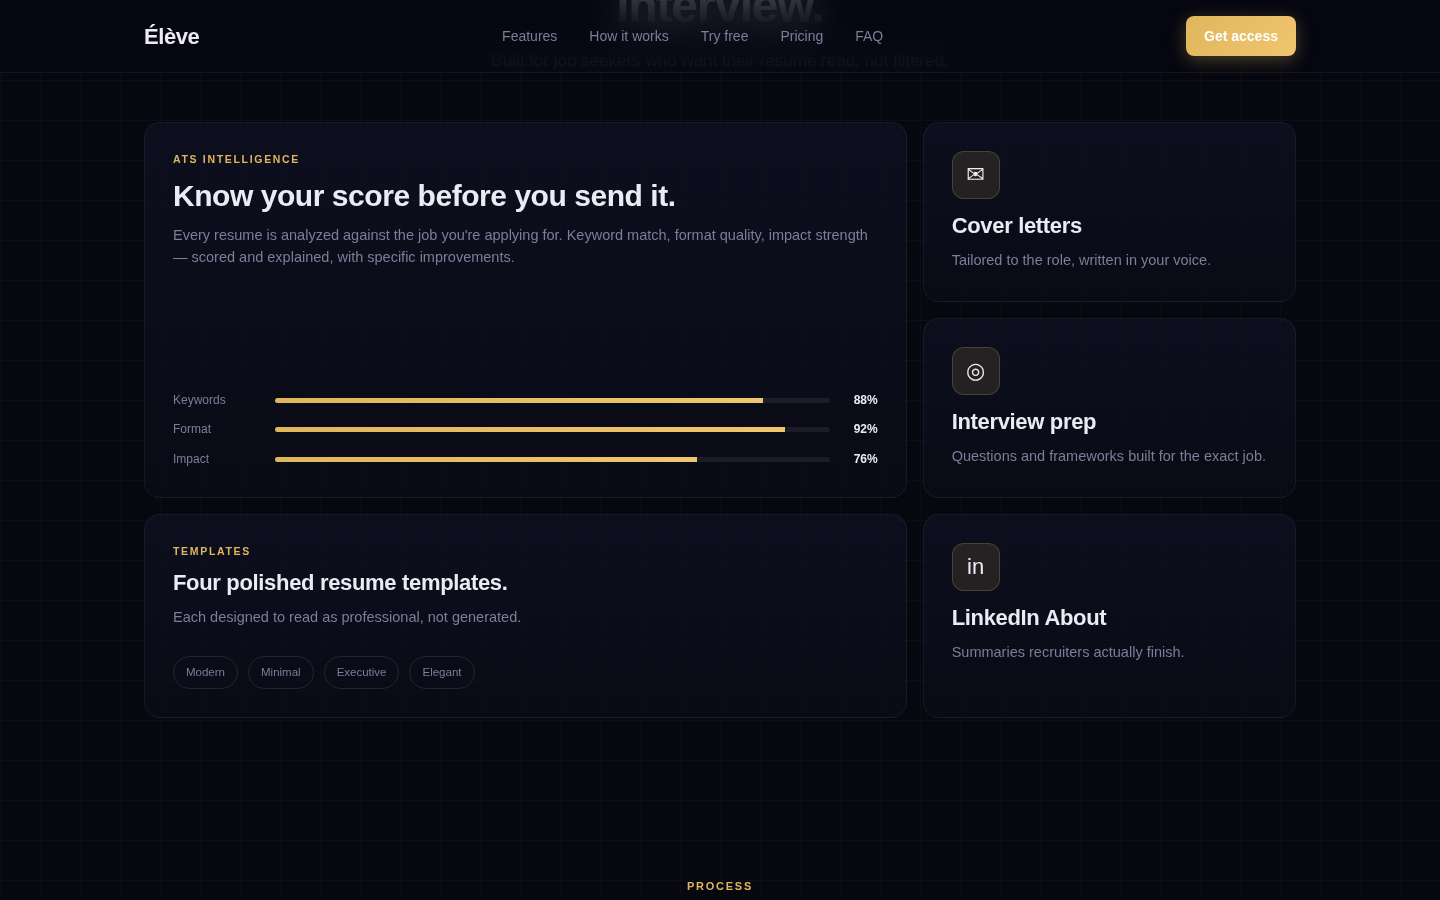
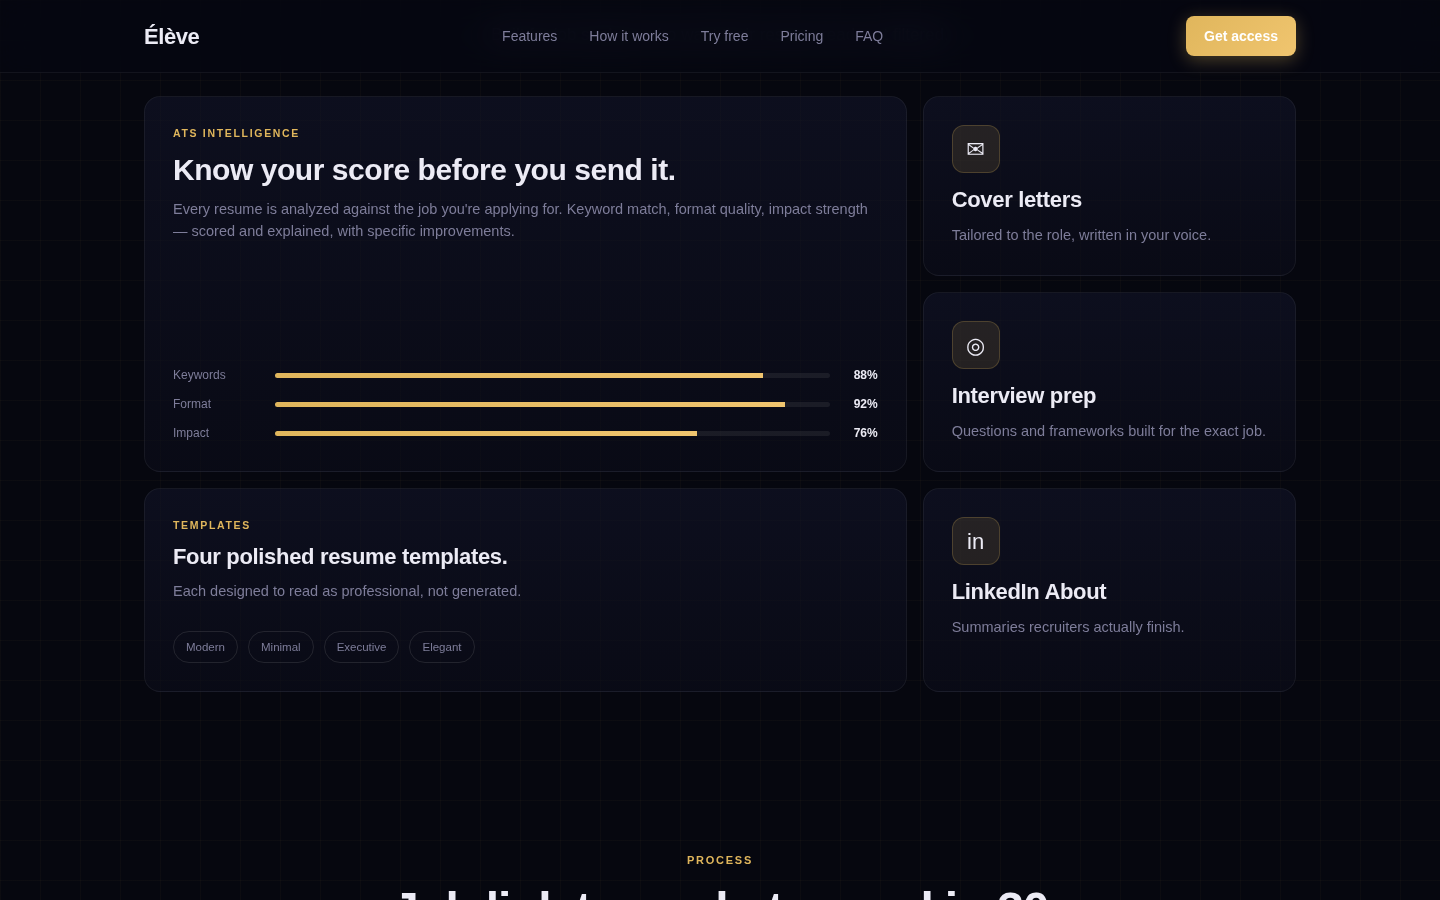
Remove stray 'no' text node before DOCTYPE
The file began with 'no<!DOCTYPE html>' — two stray characters that
rendered as a text node in the top-left corner of the page.

https://claude.ai/code/session_01XJszedc28AJXKpSJ2MCdG1

diff --git a/index.html b/index.html
@@ -1,4 +1,4 @@
-no<!DOCTYPE html>
+<!DOCTYPE html>
 
 <html lang="en">
 <head>
